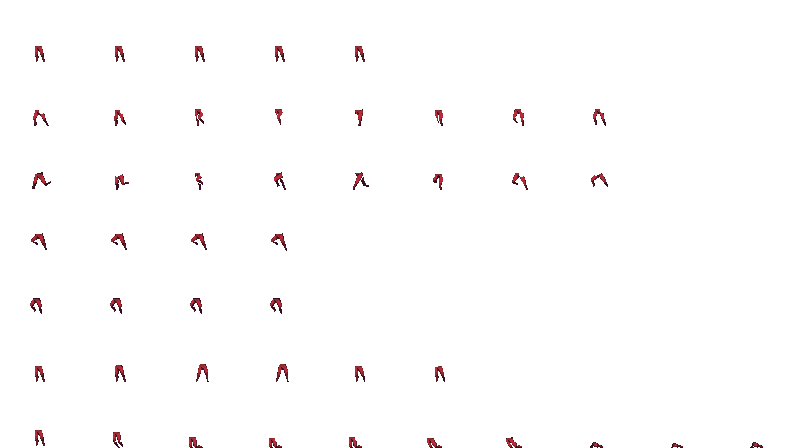
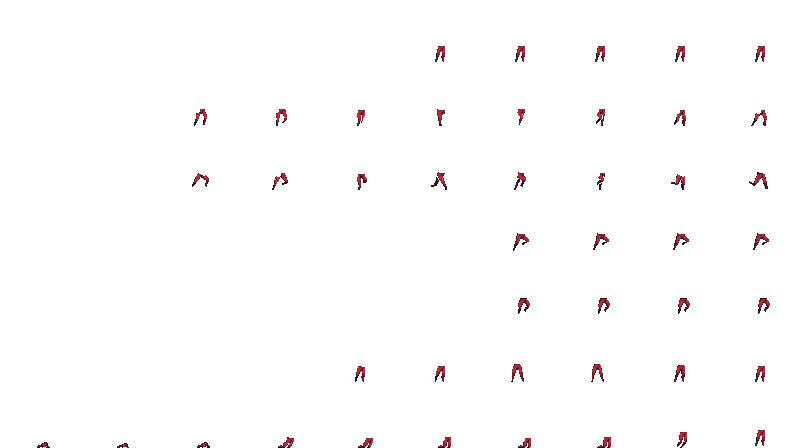
Personnage terminé

diff --git a/phaser_environnement_vide/src/js/Egypte.js b/phaser_environnement_vide/src/js/Egypte.js
@@ -10,17 +10,29 @@ export default class Egypte extends Phaser.Scene {
         this.load.spritesheet("player2", "src/assets/Personnage - Copie.png", { frameWidth: 80, frameHeight: 64 });
         this.load.spritesheet("pants", "src/assets/Pants.png", { frameWidth: 80, frameHeight: 64 });
         this.load.spritesheet("pants2", "src/assets/Pants - Copie.png", { frameWidth: 80, frameHeight: 64 });
+        this.load.spritesheet("shirt", "src/assets/Shirt.png", { frameWidth: 80, frameHeight: 64 });
+        this.load.spritesheet("shirt2", "src/assets/Shirt - Copie.png", { frameWidth: 80, frameHeight: 64 });
+        this.load.spritesheet("shoes", "src/assets/Shoes.png", { frameWidth: 80, frameHeight: 64 });
+        this.load.spritesheet("shoes2", "src/assets/Shoes - Copie.png", { frameWidth: 80, frameHeight: 64 });
     }
     create(){
         this.add.image(960, 540, "Ciel");
         this.player = this.physics.add.sprite(100, 450, "player");
         this.pants = this.physics.add.sprite(100, 450, "pants");
+        this.shirt = this.physics.add.sprite(100, 450, "shirt");
+        this.shoes = this.physics.add.sprite(100, 450, "shoes");
+        this.player.direction = 'right';
+        this.player.setBounce(0.2);
+        this.player.setCollideWorldBounds(true);
         this.pants.setBounce(0.2);
         this.pants.setCollideWorldBounds(true);
         this.pants.direction = 'right';
-        this.player.setBounce(0.2);
-        this.player.setCollideWorldBounds(true);
-        this.player.direction = 'right';
+        this.shirt.setBounce(0.2);
+        this.shirt.setCollideWorldBounds(true);
+        this.shirt.direction = 'right';
+        this.shoes.setBounce(0.2);
+        this.shoes.setCollideWorldBounds(true);
+        this.shoes.direction = 'right';
         this.anims.create({
             key: "anim_face",
             frames: [{ key: "player", frame: 4 }],
@@ -39,7 +51,7 @@ export default class Egypte extends Phaser.Scene {
         this.anims.create({
             key: "anim_saut",
             frames: this.anims.generateFrameNumbers("player", { start: 22, end: 24 }),
-            frameRate: 8,
+            frameRate: 4,
         });
         this.anims.create({
             key: "anim_face_pants",
@@ -59,7 +71,47 @@ export default class Egypte extends Phaser.Scene {
         this.anims.create({ 
             key: "anim_saut_pants",
             frames: this.anims.generateFrameNumbers("pants", { start: 22, end: 24 }),
+            frameRate: 4,
+        });
+        this.anims.create({
+            key: "anim_face_shirt",
+            frames: [{ key: "shirt", frame: 4 }],
+            frameRate: 20
+            });
+        this.anims.create({
+            key: "anim_tourne_gauche_shirt",
+            frames: this.anims.generateFrameNumbers("shirt", { start: 14, end: 16 }),
             frameRate: 8,
+        });
+        this.anims.create({
+            key: "anim_tourne_droite_shirt",
+            frames: this.anims.generateFrameNumbers("shirt2", { start: 14, end: 16}),
+            frameRate: 8,
+        });
+        this.anims.create({
+            key: "anim_saut_shirt",
+            frames: this.anims.generateFrameNumbers("shirt", { start: 22, end: 24 }),
+            frameRate: 4,
+        });
+        this.anims.create({
+            key: "anim_face_shoes",
+            frames: [{ key: "shoes", frame: 4 }],
+            frameRate: 20
+            });
+        this.anims.create({
+            key: "anim_tourne_gauche_shoes",
+            frames: this.anims.generateFrameNumbers("shoes", { start: 14, end: 16 }),
+            frameRate: 8,
+        });
+        this.anims.create({
+            key: "anim_tourne_droite_shoes",
+            frames: this.anims.generateFrameNumbers("shoes2", { start: 14, end: 16}),
+            frameRate: 8,
+        });
+        this.anims.create({
+            key: "anim_saut_shoes",
+            frames: this.anims.generateFrameNumbers("shoes", { start: 22, end: 24 }),
+            frameRate: 4,
         });
         clavier = this.input.keyboard.createCursorKeys();
     }
@@ -67,29 +119,49 @@ export default class Egypte extends Phaser.Scene {
         if (clavier.left.isDown) {
             this.player.direction = 'left';
             this.pants.direction = 'left';
+            this.shirt.direction = 'left';
+            this.shoes.direction = 'left';
             this.player.setVelocityX(-160);
             this.pants.setVelocityX(-160);
+            this.shirt.setVelocityX(-160);
+            this.shoes.setVelocityX(-160);
             this.player.anims.play("anim_tourne_gauche", true);
-            this.player.anims.play("anim_tourne_gauche_pants", true);
+            this.pants.anims.play("anim_tourne_gauche_pants", true);
+            this.shirt.anims.play("anim_tourne_gauche_shirt", true);
+            this.shoes.anims.play("anim_tourne_gauche_shoes", true);
           } else if (clavier.right.isDown) {
             this.player.direction = 'right';
             this.pants.direction = 'right';
+            this.shirt.direction = 'right';
+            this.shoes.direction = 'right';
             this.player.setVelocityX(160);
             this.pants.setVelocityX(160);
+            this.shirt.setVelocityX(160);
+            this.shoes.setVelocityX(160);
             this.player.anims.play("anim_tourne_droite", true);
-            this.player.anims.play("anim_tourne_droite_pants", true);
+            this.pants.anims.play("anim_tourne_droite_pants", true);
+            this.shirt.anims.play("anim_tourne_droite_shirt", true);
+            this.shoes.anims.play("anim_tourne_droite_shoes", true);
           } else {
             this.player.setVelocityX(0);
             this.pants.setVelocityX(0);
+            this.shirt.setVelocityX(0);
+            this.shoes.setVelocityX(0);
             this.player.anims.play("anim_face");
-            this.player.anims.play("anim_face_pants");
+            this.pants.anims.play("anim_face_pants");
+            this.shirt.anims.play("anim_face_shirt");
+            this.shoes.anims.play("anim_face_shoes");
           }
         
           if (clavier.up.isDown && (this.player.body.touching.down || this.player.body.blocked.down)) {
             this.player.anims.play("anim_saut", true);
-            this.player.anims.play("anim_saut", true);
+            this.pants.anims.play("anim_saut_pants", true);
+            this.shirt.anims.play("anim_saut_shirt", true);
+            this.shoes.anims.play("anim_saut_shoes", true);
             this.pants.setVelocityY(-330);
             this.player.setVelocityY(-330);
+            this.shirt.setVelocityY(-330);
+            this.shoes.setVelocityY(-330);
           } }
         
     }
